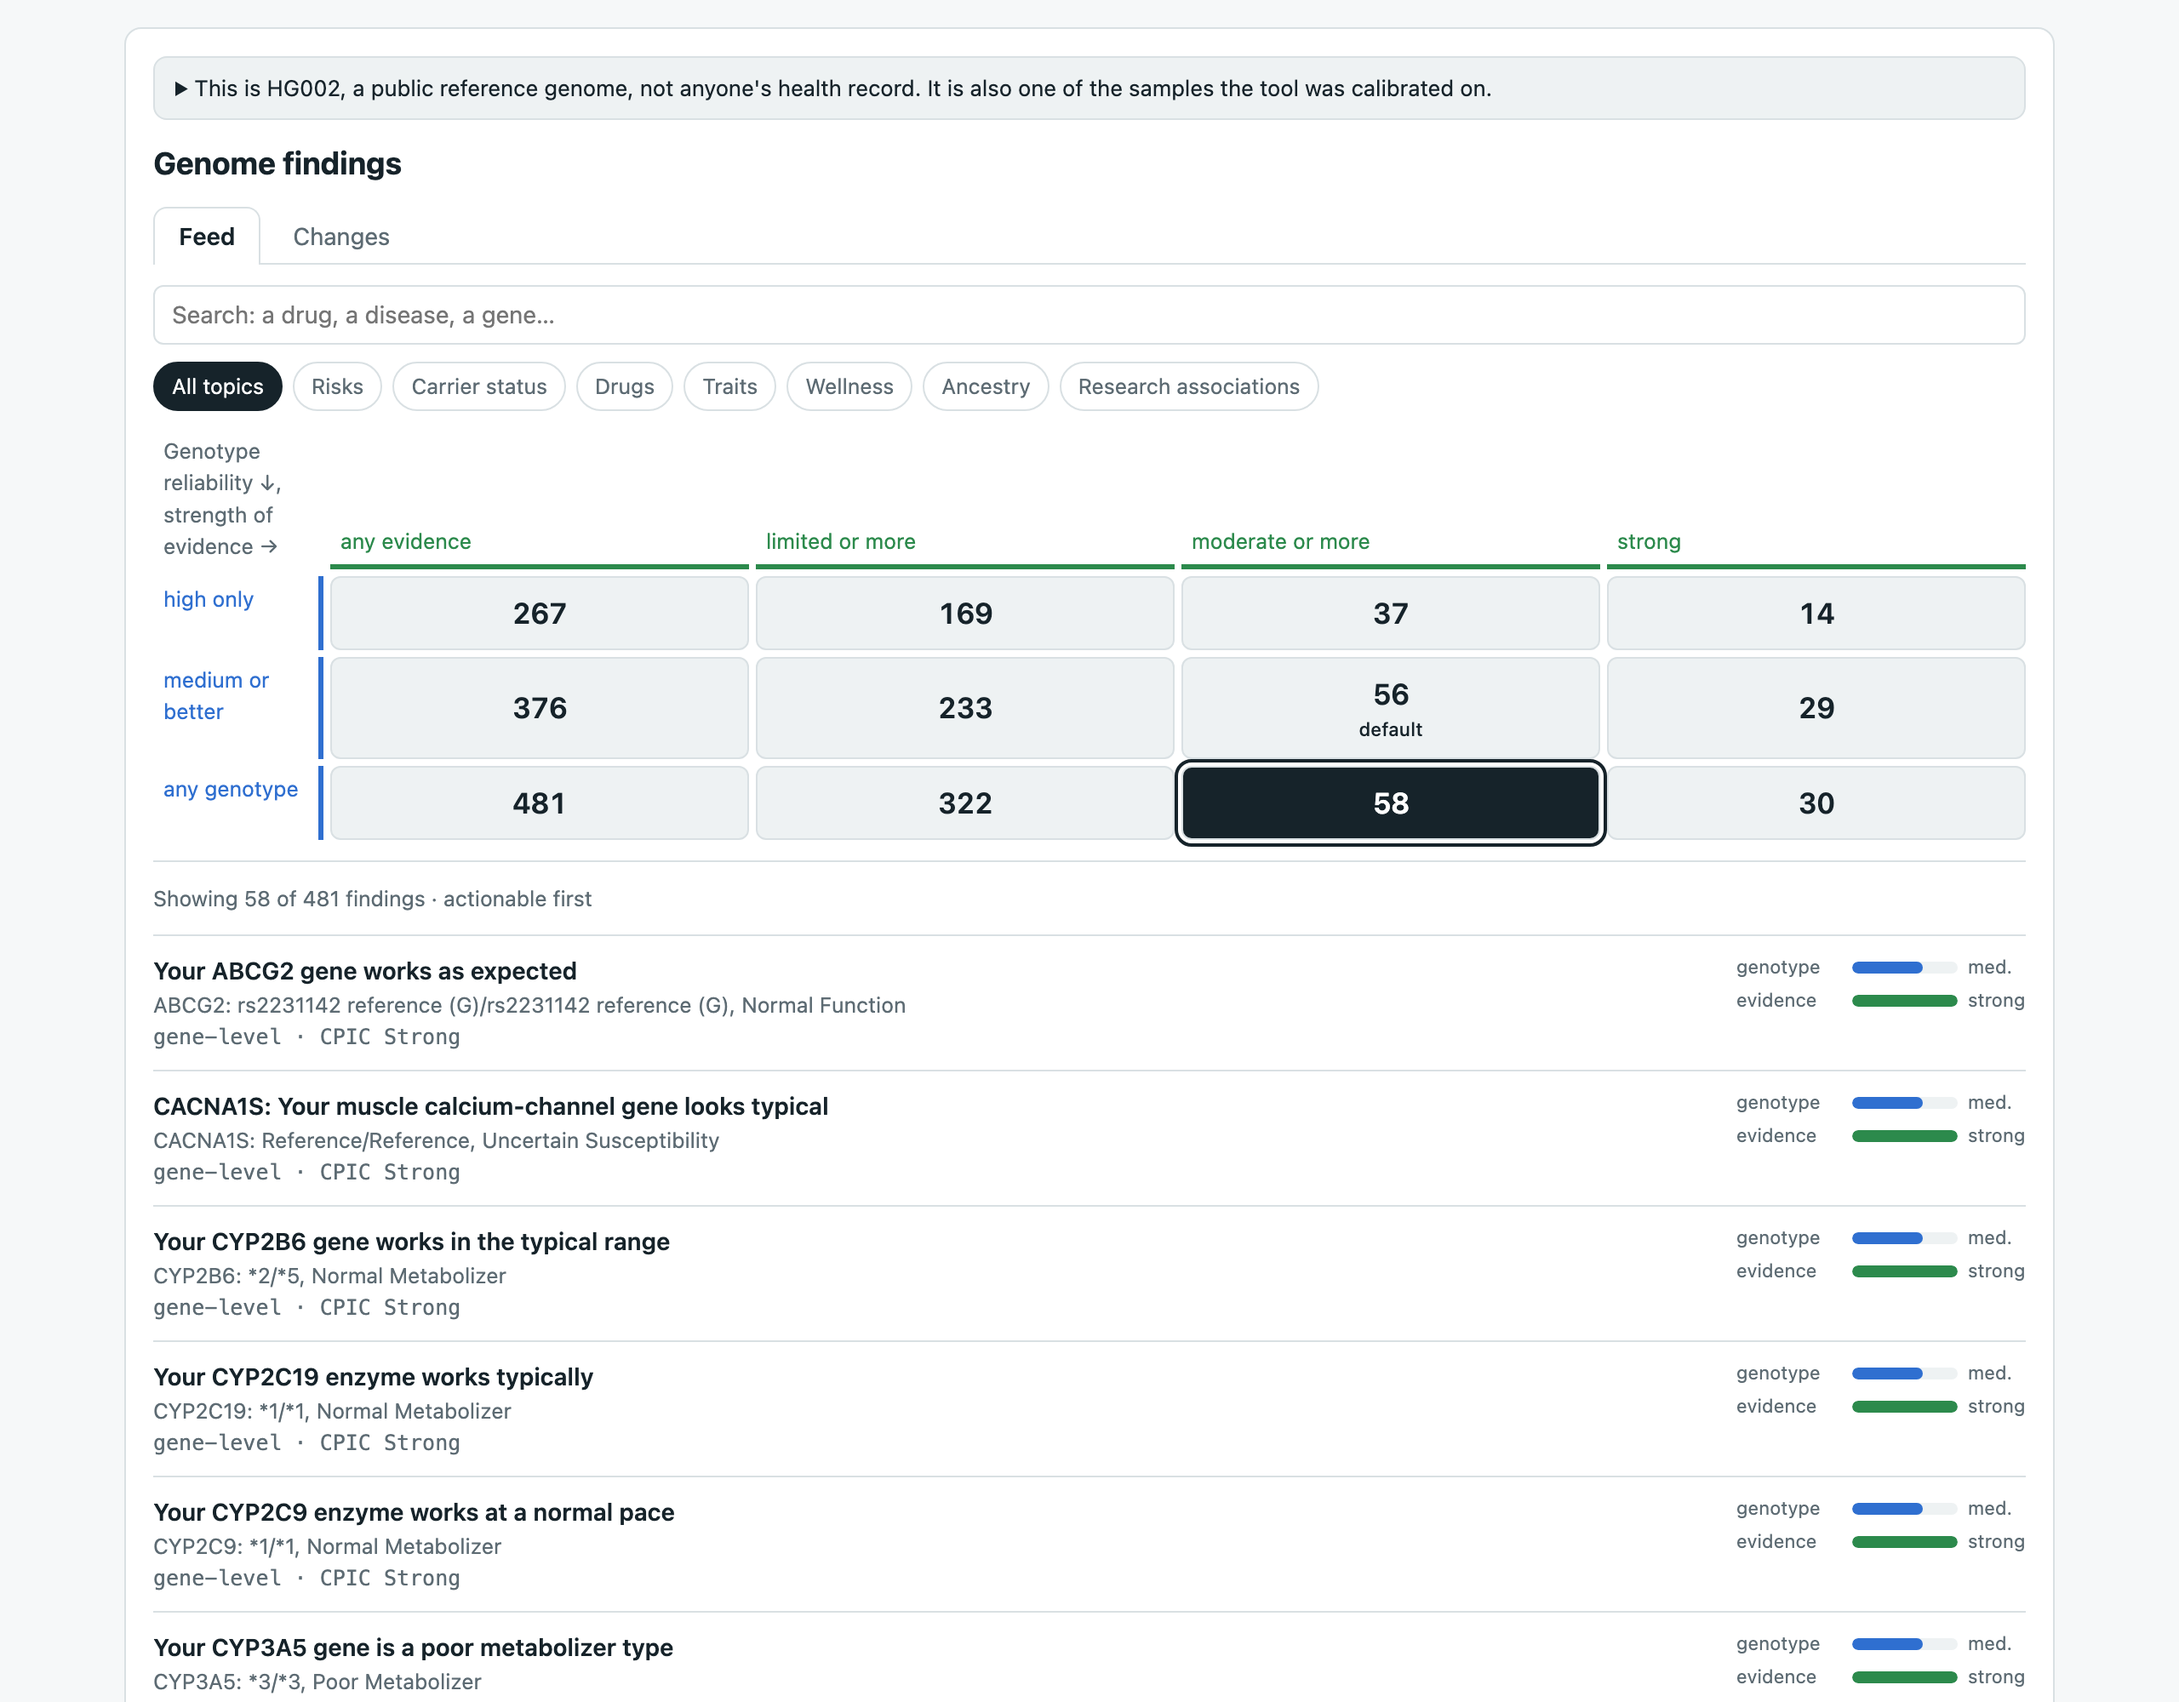
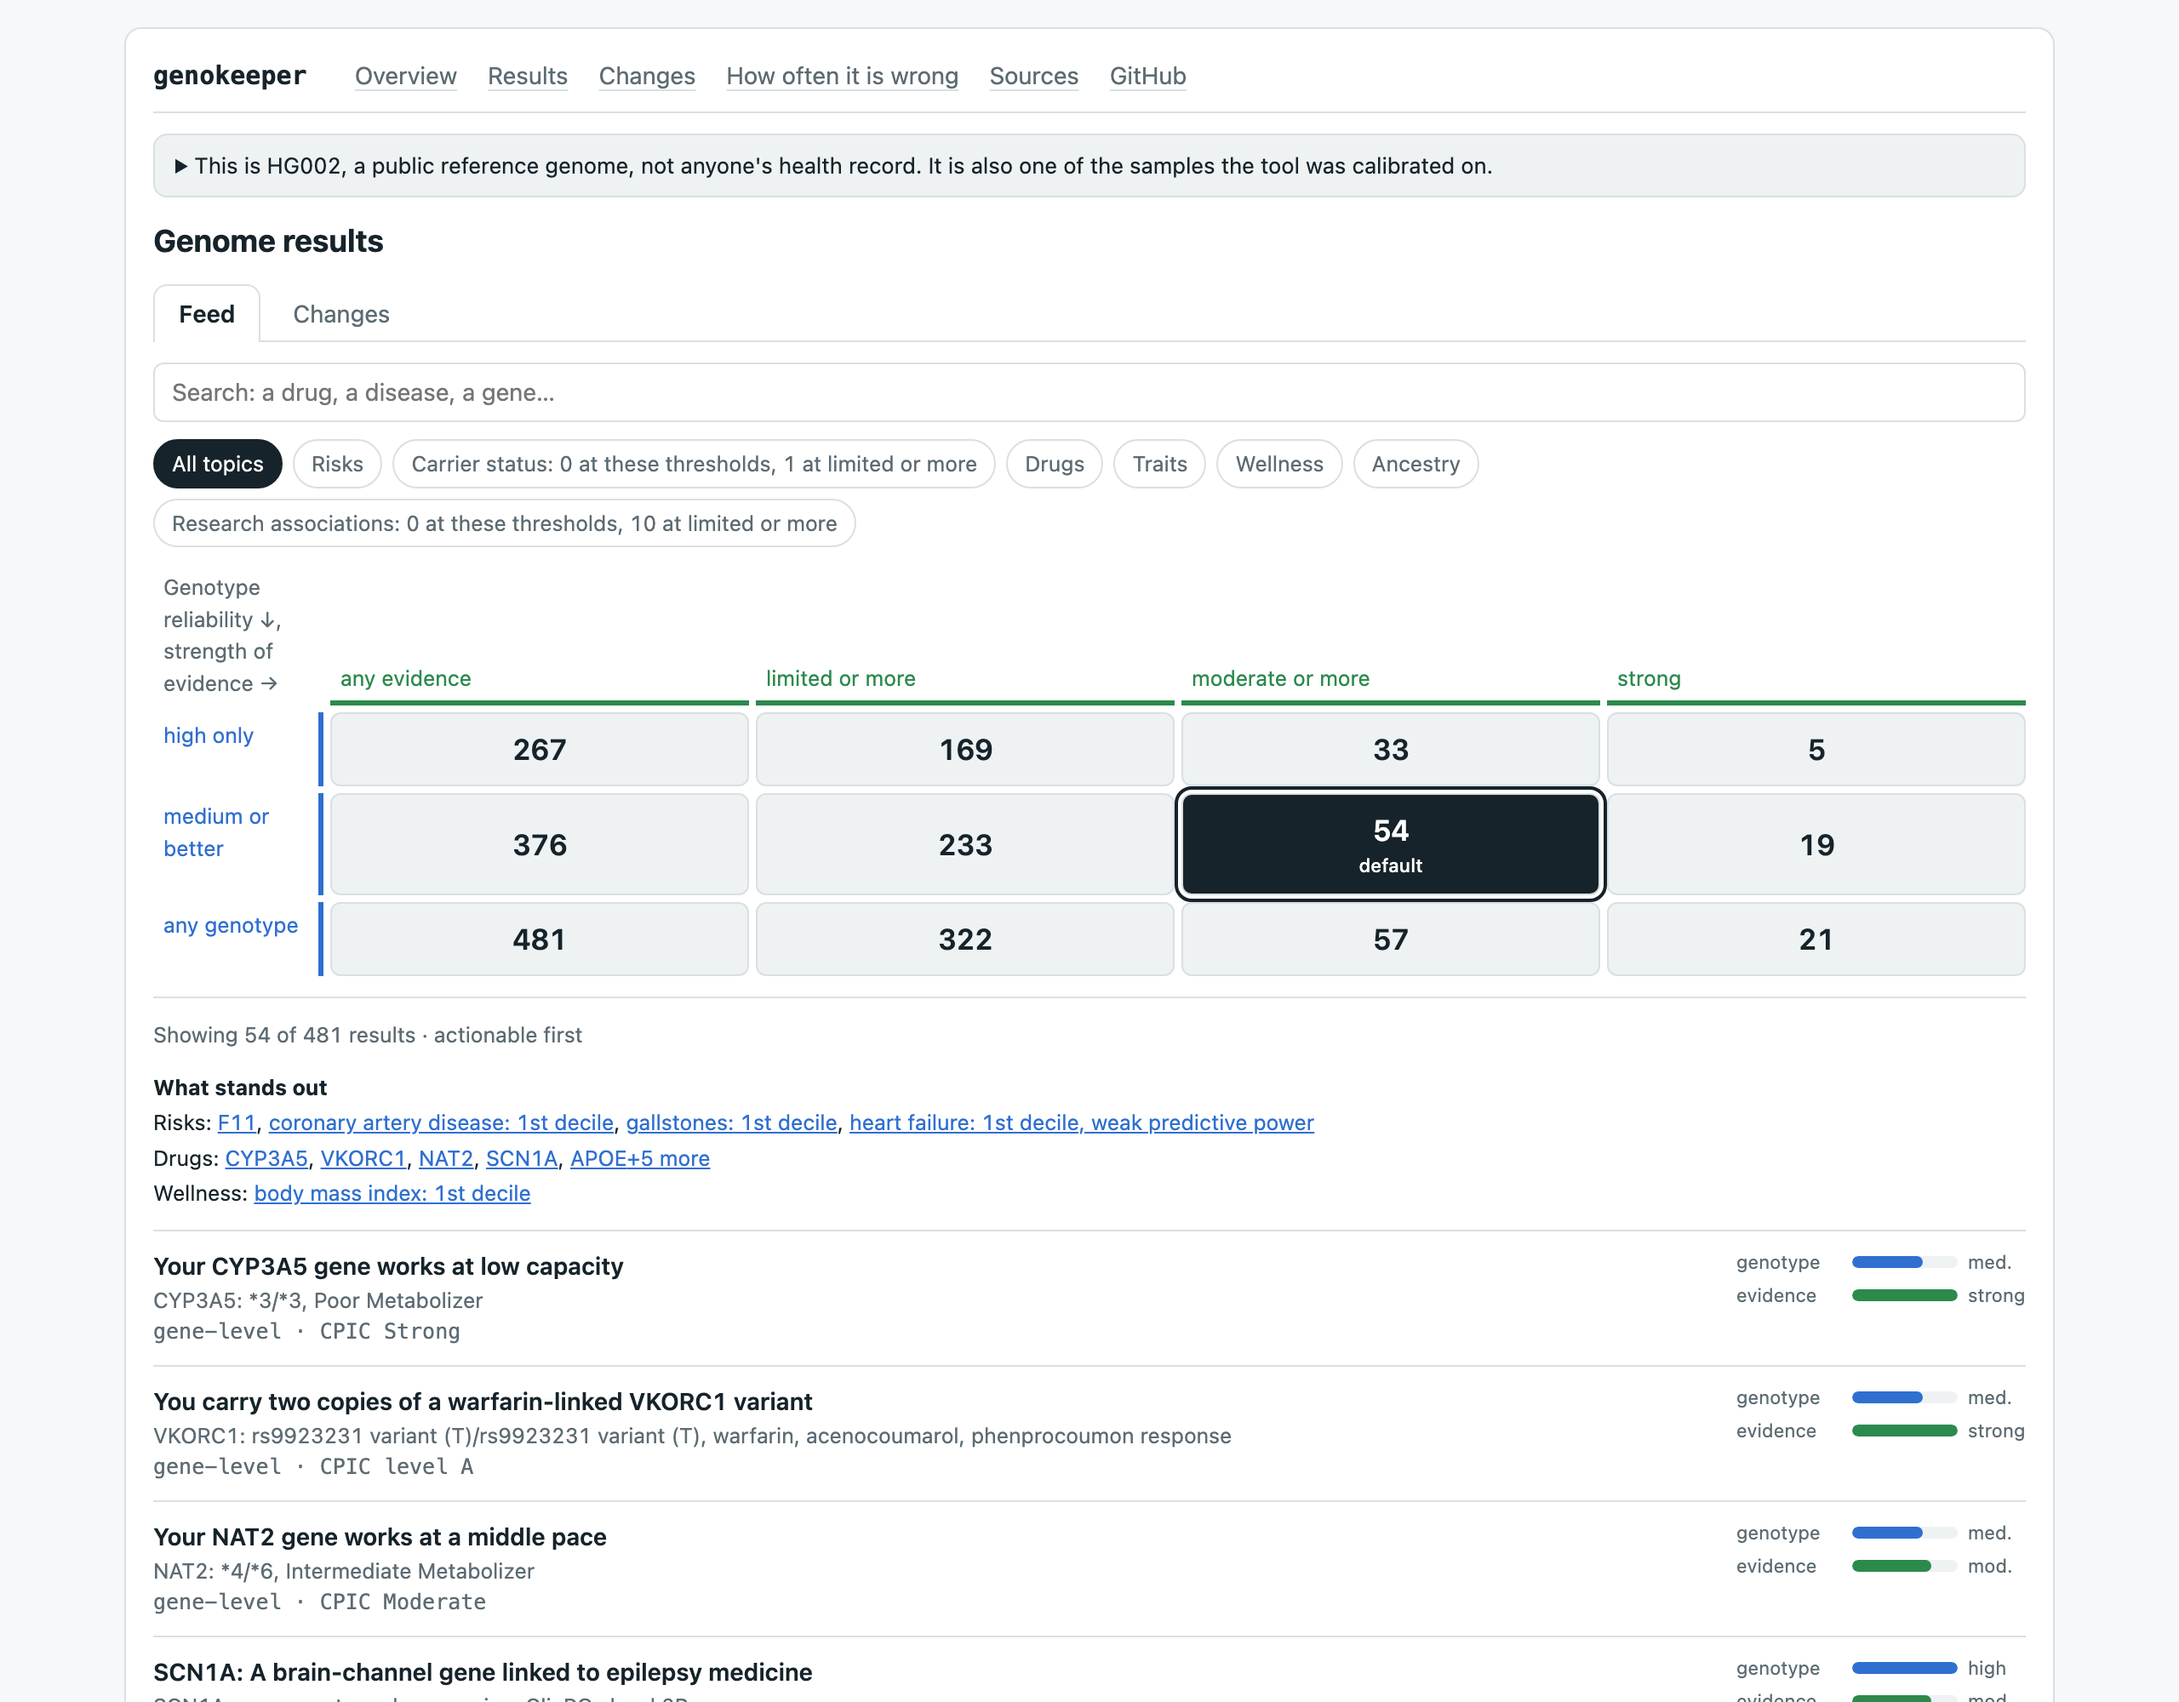
docs: the README leads with the HG002 demo's numbers, and its screenshots and share card from the final build

diff --git a/README.md b/README.md
@@ -79,30 +79,32 @@ weak evidence. Each finding carries two measures:
 - how likely its genotype is wrong, measured on reference samples;
 - how strong the evidence behind its claim is.
 
-In the matrix's loosest cell, any genotype and any evidence, the invented genome shows 2,405
-findings. At the default thresholds, 18 remain.
+**The HG002 demo.** The same pipeline run on GIAB's HG002, a public reference genome, is at
+[genokeeper.github.io/genokeeper](https://genokeeper.github.io/genokeeper/). In the matrix's
+loosest cell, any genotype and any evidence, HG002 has 481 results; at the default thresholds,
+54 remain, and 5 at high reliability and strong evidence. The site shows what a newer ClinVar
+release changed and how often each kind of call is wrong, with the samples it was measured on.
+`uvx genokeeper demo` (macOS or Linux) puts the same store in a folder you can ask questions
+about.
+
+![The HG002 demo's landing page: one opened result beside the headline counts](docs/demo/hg002-landing.png)
+
+![The HG002 demo's dashboard: the threshold matrix at its default, medium or better and moderate or more, what stands out, and the first results with their generated plain-language titles](docs/demo/hg002-dashboard.png)
 
 An open row shows its genotype, its evidence and sources, and, once `genokeeper explain` has run,
-a plain-language explanation. The page labels that explanation with the model that wrote it and
-the sources it was given.
+a short gist and a plain-language explanation. The page labels both with the model that wrote
+them and the sources it was given.
+
+The invented genome below, made to touch every topic, shows 2,405 findings in the loosest cell
+and 18 at the default thresholds. Its page, recording and screenshot are of an earlier version,
+with two sliders where the matrix now is.
 
 ![The demo dashboard: the chosen cell moves from the matrix's loosest to the default, the count falls from 2,405 findings to 18, then two rows open with explanations written by a language model](docs/demo/dashboard.gif)
 
-To try the filters yourself, download the demo page
-[docs/demo/dashboard.html](docs/demo/dashboard.html) and open it in a browser. It loads nothing
-from the network.
+To try the page yourself, download [docs/demo/dashboard.html](docs/demo/dashboard.html) and open
+it in a browser. It loads nothing from the network.
 
 ![The demo dashboard at its default thresholds: findings with genotype-reliability and evidence bars, the topic chips and the two sliders of an earlier version](docs/demo/dashboard.png)
-
-**The HG002 demo.** The same pipeline run on GIAB's HG002, a public reference genome, is at
-[genokeeper.github.io/genokeeper](https://genokeeper.github.io/genokeeper/). It shows the
-findings left at each pair of thresholds, what a newer ClinVar release changed, and how often each
-kind of call is wrong, with the samples it was measured on. `uvx genokeeper demo` puts the same
-store in a folder you can ask questions about.
-
-![The HG002 demo's landing page: the findings left at each pair of thresholds, and what a newer ClinVar release changed](docs/demo/hg002-landing.png)
-
-![The HG002 demo's dashboard: the threshold matrix with "any genotype, moderate or more" chosen, and the first findings with their generated plain-language titles](docs/demo/hg002-dashboard.png)
 
 **Language.** Text is in English by default. `GENOKEEPER_LANG=ru`, or `--lang ru` on
 `dashboard` and `explain`, switches the dashboard, the explanations and the update notices to
